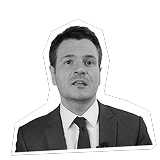
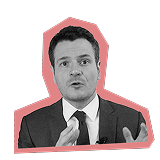
Add debat border

Changed region(s): [[0.0625, 0.0938, 1.0, 1.0]]

diff --git a/institutmontaigne/developpement/src/components/QuestionAccordion.jsx b/institutmontaigne/developpement/src/components/QuestionAccordion.jsx
@@ -1,5 +1,4 @@
 import { useState, useRef, useCallback, useEffect, isValidElement } from 'react';
-import PhotoQuote from './dialog/PhotoQuote.jsx';
 
 export default function QuestionAccordion({ questions, intervenants }) {
   const [openIndex, setOpenIndex] = useState(null);
@@ -58,7 +57,7 @@ export default function QuestionAccordion({ questions, intervenants }) {
   }, []);
 
   return (
-    <section className="bg-white py-12 md:py-20">
+    <section className="bg-white ">
       <div className="w-full">
         {questions.map((q, i) => (
           <QuestionItem
@@ -316,14 +315,13 @@ const QuestionItem = forwardRef(function QuestionItem(
           >
             {question.dialogue.map((block, j) => {
               const info = getIntervenantInfo(block.intervenant);
-              const isFirst = block.type === 'interlocuteur1';
-
+              const intervenantIndex = intervenants.findIndex(p => p.id === block.intervenant);
               return (
                 <DialogueCard
                   key={j}
                   block={block}
                   info={info}
-                  isFirst={isFirst}
+                  intervenantIndex={intervenantIndex}
                   index={j}
                 />
               );
@@ -335,7 +333,9 @@ const QuestionItem = forwardRef(function QuestionItem(
   );
 });
 
-function DialogueCard({ block }) {
+const SPEAKER_COLORS = ['#DD7375', '#872339'];
+
+function DialogueCard({ block, intervenantIndex }) {
   const ref = useRef(null);
   const [visible, setVisible] = useState(false);
 
@@ -360,15 +360,30 @@ function DialogueCard({ block }) {
     >
       {/* Content */}
       <div>
-        {block.contenu.map((para, k) =>
-          isValidElement(para) ? (
-              para
+        {block.contenu.map((para, k) => {
+          const isLeft = block.type === 'interlocuteur1';
+          const borderColor = SPEAKER_COLORS[intervenantIndex] ?? '#888888';
+          return isValidElement(para) ? (
+            <div
+            className={`last:mb-0 text-[15px] md:text-base leading-[1.85] py-3 ${
+                isLeft ? 'pl-4 border-l-4' : 'pr-4 border-r-4'
+              }`}
+              style={{ borderColor }}
+              >
+              {para}
+            </div>
           ) : (
-            <p key={k} className="mb-4 last:mb-0 text-[15px] md:text-base leading-[1.85] font-helevetica">
+            <p
+              key={k}
+              className={`last:mb-0 text-[15px] md:text-base leading-[1.85] py-3 ${
+                isLeft ? 'pl-4 border-l-4' : 'pr-4 border-r-4'
+              }`}
+              style={{ borderColor }}
+            >
               {para}
             </p>
-          )
-        )}
+          );
+        })}
       </div>
     </div>
   );

diff --git a/institutmontaigne/developpement/src/data/debate.jsx b/institutmontaigne/developpement/src/data/debate.jsx
@@ -1,6 +1,7 @@
 import Manuscrit from "../components/infographie/Manuscrit";
-import PhotoQuote from "../components/dialog/PhotoQuote";
+import PhotoQuote from "../components/question/quote";
 import Timeline from "../components/infographie/Timeline";
+import {DropZone, AnswerBank} from "../components/infographie/Puzzle";
 
 const debateData = {
   "meta": {
@@ -60,7 +61,7 @@ const debateData = {
               isLeft={true}
             />,
             <Timeline className="mx-auto w-fit mb-6" />,
-            <>Le général de Gaulle fit donc le choix d'en revenir au vieux mode de scrutin en place depuis le <Manuscrit>Second Empire</Manuscrit> et qui avait dominé sous la <Manuscrit surrounded={false}>IIIe République</Manuscrit> : le scrutin majoritaire à deux tours, qui lui offrit une majorité absolue à partir de 1962.</>
+            <p>Le général de Gaulle fit donc le choix d'en revenir au vieux mode de scrutin en place depuis le <Manuscrit>Second Empire</Manuscrit> et qui avait dominé sous la <Manuscrit surrounded={false}>IIIe République</Manuscrit> : le scrutin majoritaire à deux tours, qui lui offrit une majorité absolue à partir de 1962.</p>
             ]
         },
         {
@@ -71,7 +72,11 @@ const debateData = {
               photo="/img/2.png"
               quote="J'ajouterai à cela que <b>De Gaulle est d'abord favorable à la proportionnelle</b> sous la IVe, qu'il perçoit comme un <b>moyen de contenir le Parti communiste.</b>"
               isLeft={false}
-            />
+            />,
+            <>Le général de Gaulle fit donc le choix d'en revenir au scrutin majoritaire à deux tours,<DropZone correctAnswer="XIX" /> qui offrit une majorité absolue à partir de 1962. Comme le mode de scrutin avait été la variable d'ajustement sous la IIIe République, les législateurs conservèrent cette souplesse en ne l'inscrivant pas dans la Constitution.</>,
+            <AnswerBank answers={["XVIII", "XIX", "XX"]} />,
+            "Avant cela, les programmes reposaient avant tout sur une personne.",
+            "Ainsi, le mode de scrutin et la structuration des partis influent l'un sur l'autre. Et il s'agit toujours d'un processus au long cours.",
           ]
         },
       ]

diff --git a/institutmontaigne/developpement/src/components/question/quote.jsx b/institutmontaigne/developpement/src/components/question/quote.jsx
@@ -1,3 +1,5 @@
+import { color } from "framer-motion";
+
 /**
  * PhotoQuote — bulle de citation avec photo, comme dans le Figma.
  *
@@ -11,11 +13,10 @@
  * }
  */
 export default function PhotoQuote({ photo, quote, isLeft = true }) {
-  const bubbleBg = isLeft ? 'bg-[#C8D4E8]' : 'bg-[#F0C4B8]';
-  const arrowColor = isLeft ? '#0B1D3A' : '#C41E3A';
+  const COLOR = isLeft ? '#DD7375' : '#872339';
 
   return (
-    <div className="w-full pb-5">
+    <div className="w-full">
       <div className={`grid grid-cols-2 items-end ${isLeft ? 'justify-items-start ' : 'justify-items-end'} `}>
 
         {/* Photo */}
@@ -39,7 +40,7 @@ export default function PhotoQuote({ photo, quote, isLeft = true }) {
             style={{
               width: '64px',
               height: '64px',
-              backgroundColor: arrowColor,
+              backgroundColor: COLOR,
               maskImage: 'url(/icons/quoteArrow.svg)',
               maskSize: 'contain',
               maskRepeat: 'no-repeat',
@@ -55,9 +56,12 @@ export default function PhotoQuote({ photo, quote, isLeft = true }) {
       </div>
 
       {/* Bulle de citation */}
-      <blockquote className={`${bubbleBg} rounded-2xl pt-6 pb-5 px-5`}>
+      <blockquote className={`rounded-2xl pt-6 pb-5 px-5`}>
         <p
           className="text-sm md:text-base font-helvetica leading-relaxed text-ink/90 text-center"
+          style={{
+            color: COLOR
+          }}
           dangerouslySetInnerHTML={{ __html: `“ ${quote} ”` }}
         />
       </blockquote>

diff --git a/institutmontaigne/developpement/src/components/infographie/Puzzle.jsx b/institutmontaigne/developpement/src/components/infographie/Puzzle.jsx
@@ -279,7 +279,7 @@ export function AnswerBank({ answers }) {
   }, []);
 
   return (
-    <div style={{ display: "flex", gap: 28, justifyContent: "center", flexWrap: "wrap", marginTop: 40 }}>
+    <div style={{ display: "flex", gap: 28, justifyContent: "center", flexWrap: "wrap" }}>
       {answers.map((value, i) => (
         <motion.div key={value}
           initial={{ opacity: 0, y: 24 }}
